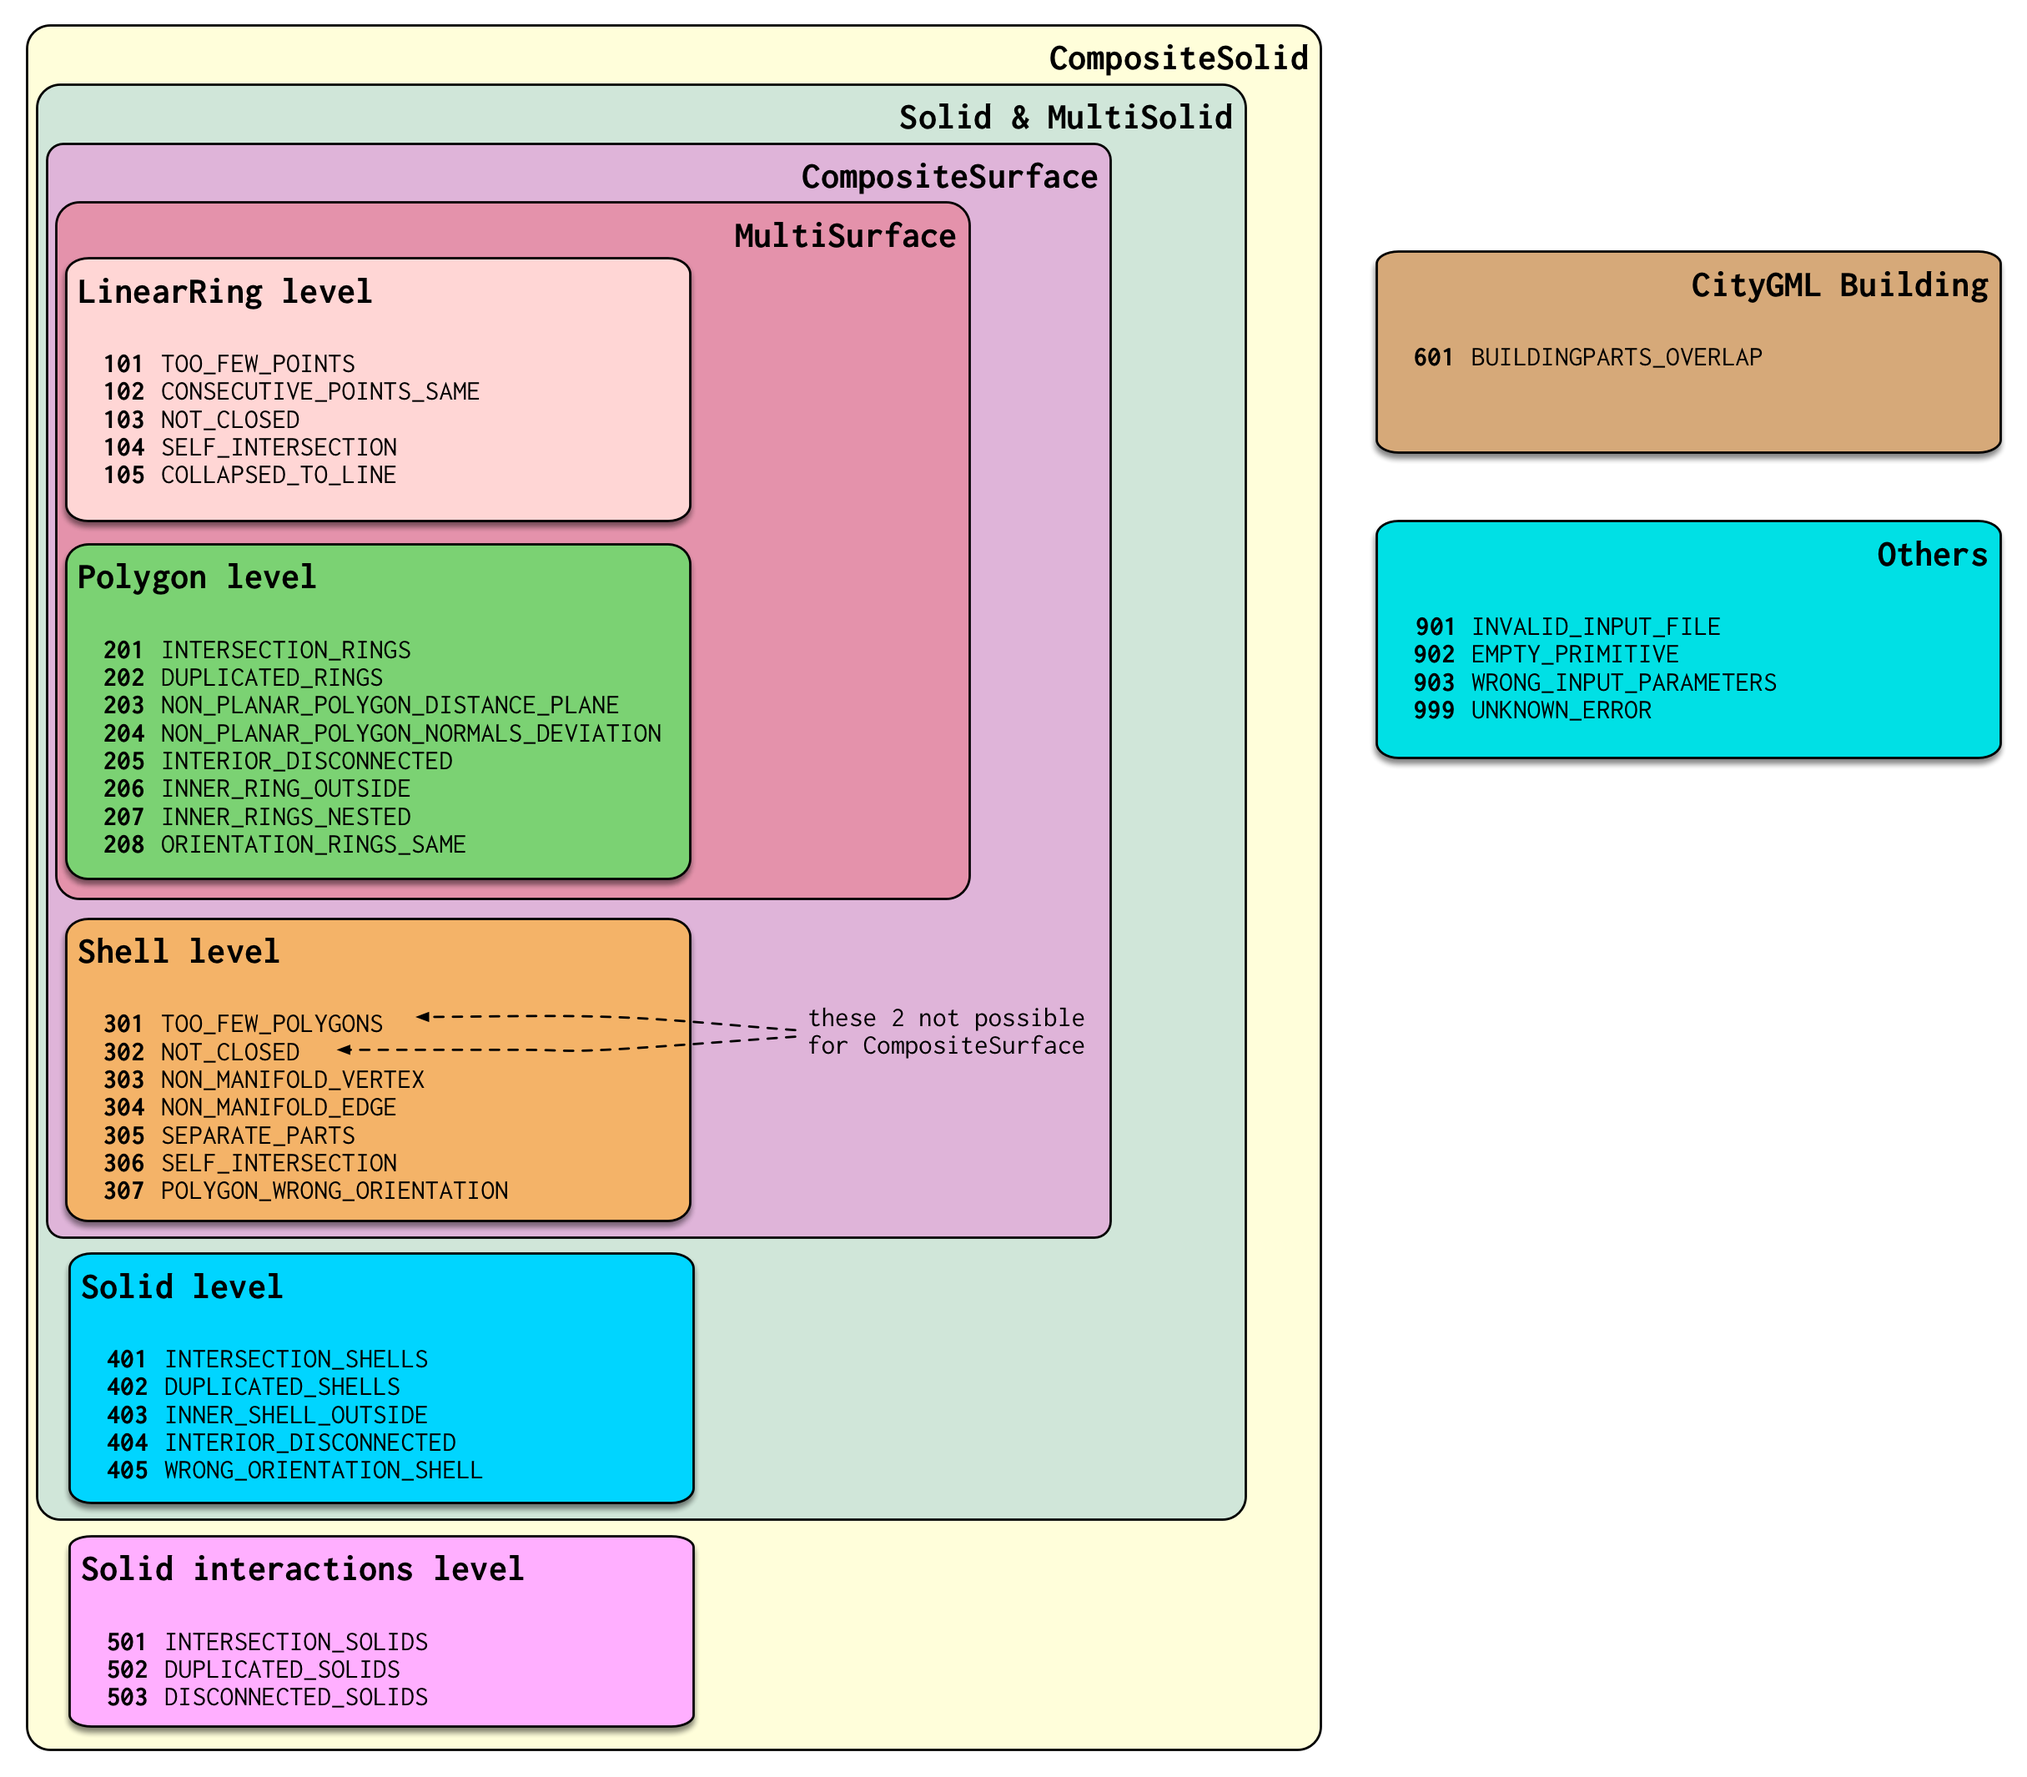
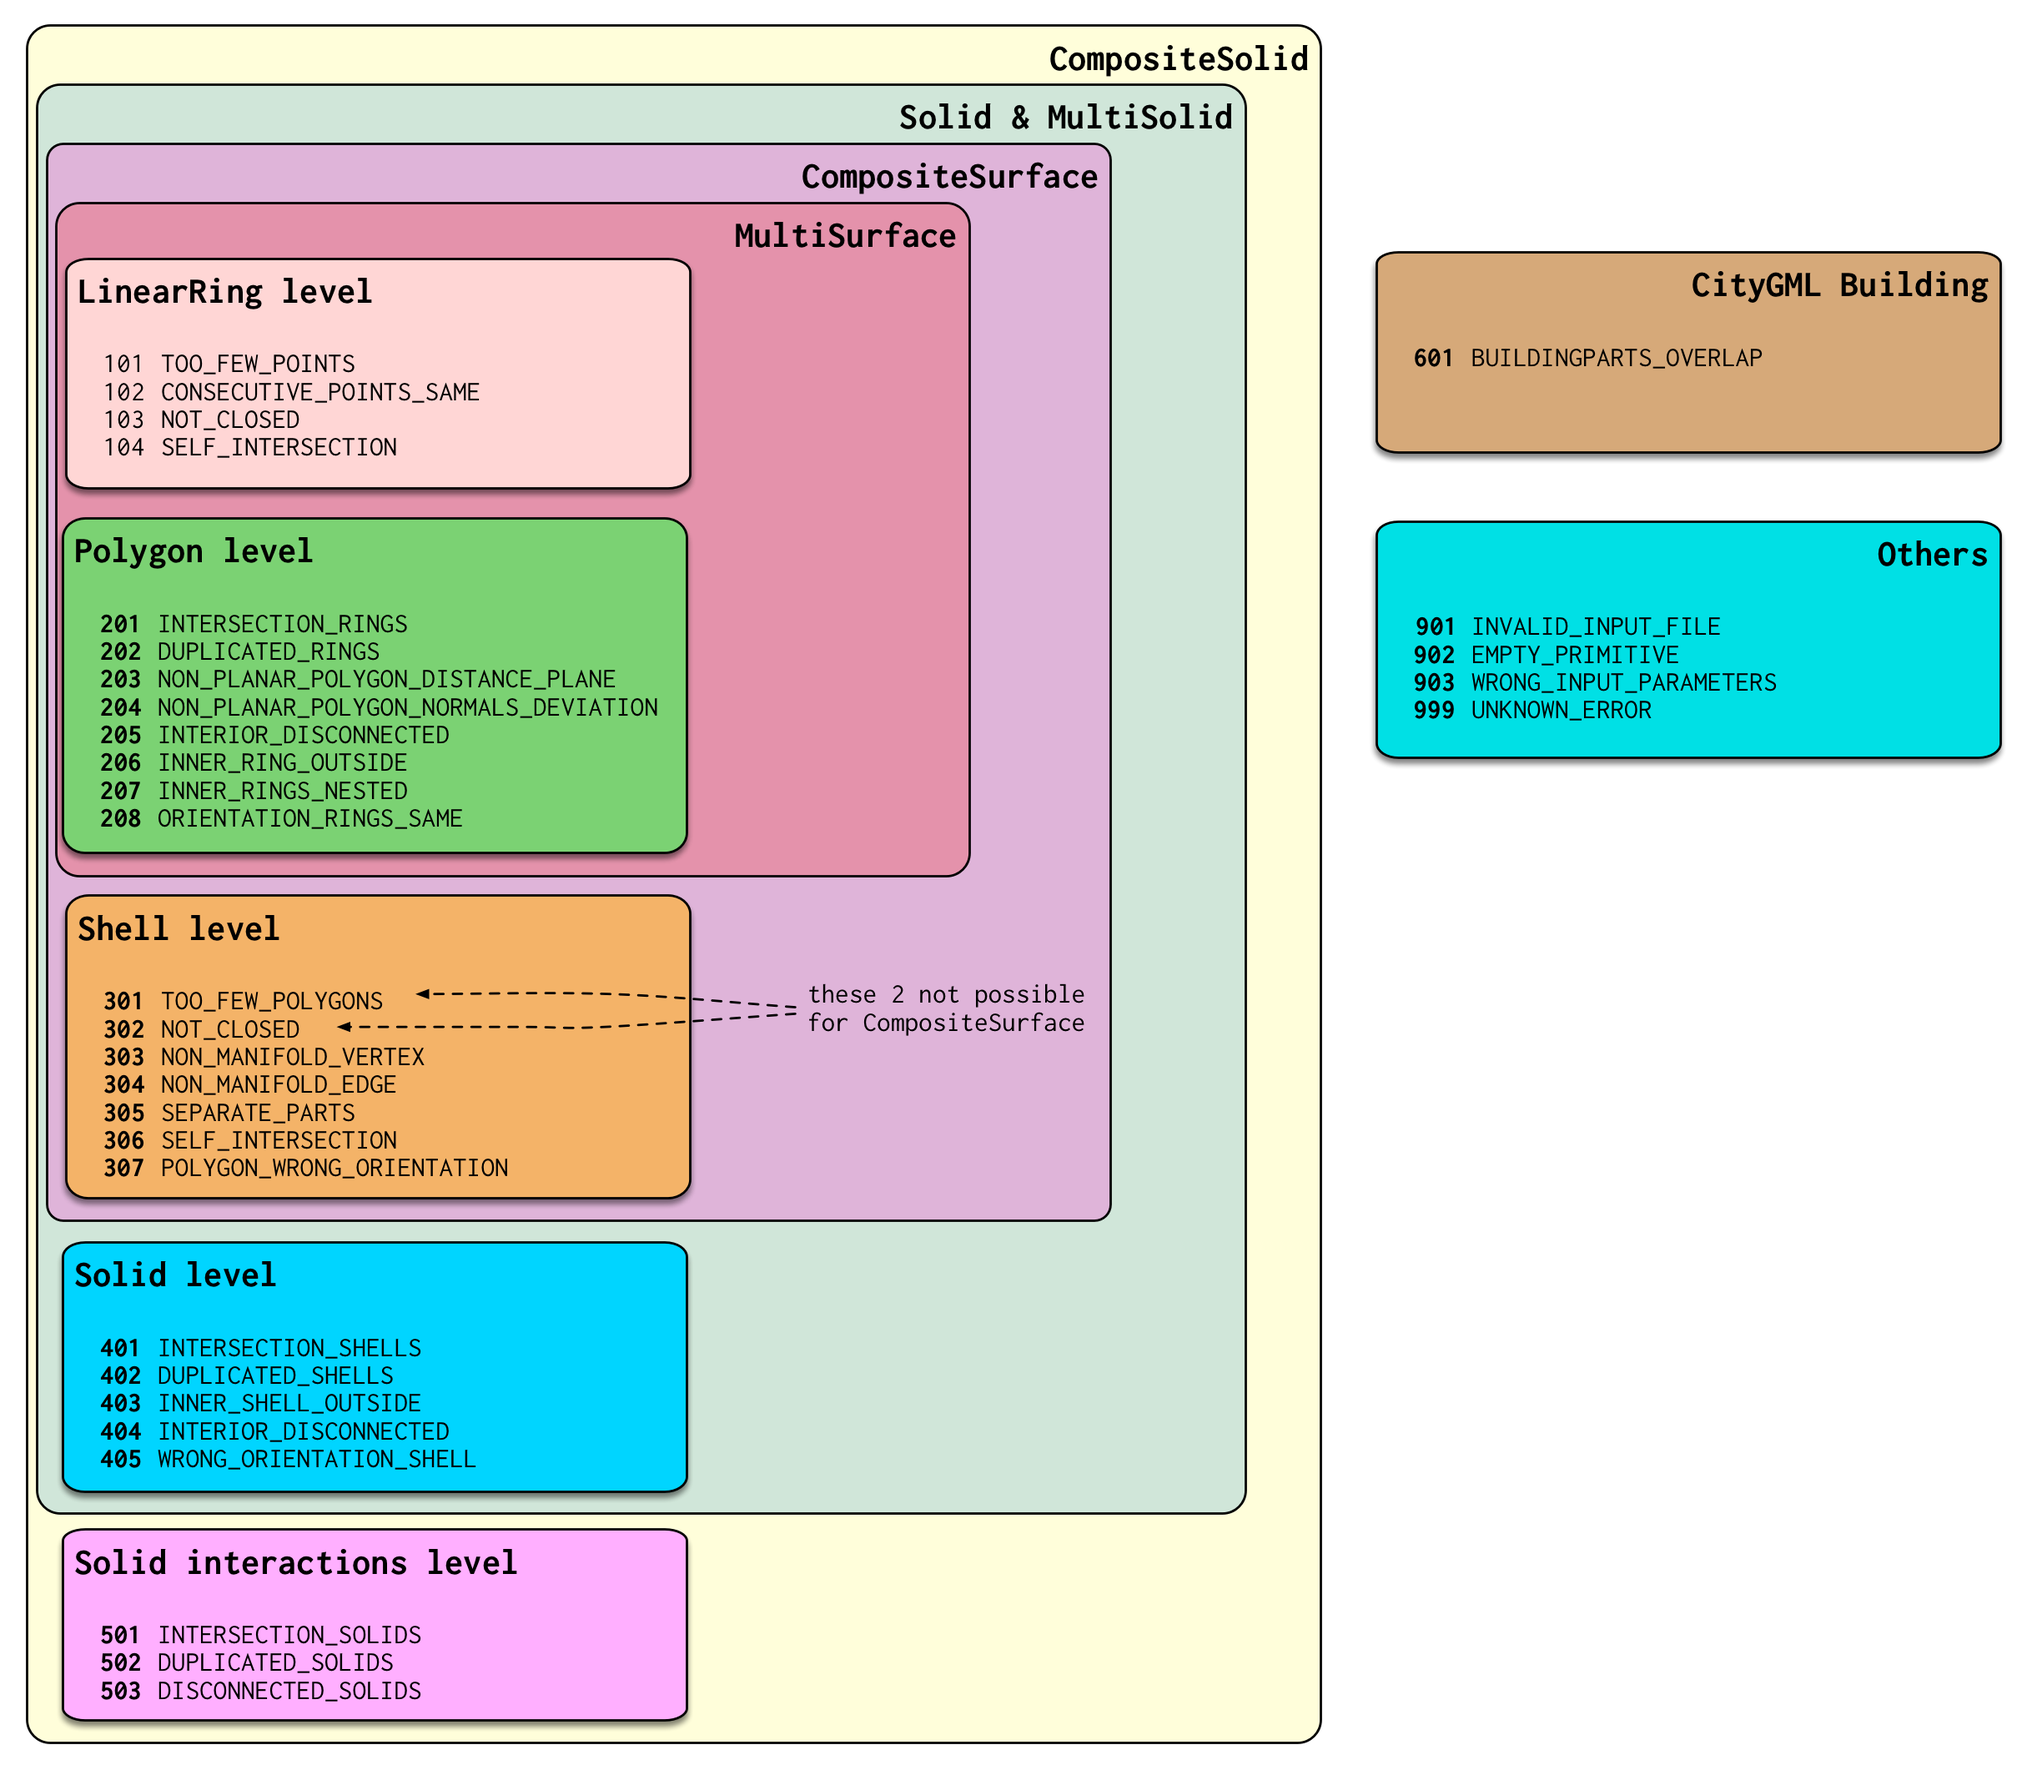
remove error 105: 104 is for this case too

diff --git a/src/Surface.cpp b/src/Surface.cpp
@@ -431,11 +431,11 @@ bool Surface::validate_2d_primitives(double tol_planarity_d2p, double tol_planar
     size_t numf = _lsFaces[i].size();
     std::vector<int> &ids = _lsFaces[i][0]; // helpful alias for the outer boundary
 
-    //-- if only 3 pts it's now valid, no need to process further
+    //-- if only 3 pts it's not valid, no need to process further
     if ( (numf == 1) && (ids.size() == 3)) 
     {
       if (CGAL::collinear(_lsPts[ids[0]], _lsPts[ids[1]], _lsPts[ids[2]]) == true) {
-        this->add_error(104, _lsFacesID[i], " outer ring (a triangle) is collapsed to a point or a line");
+        this->add_error(104, _lsFacesID[i], " outer ring (a triangle) is collapsed to a line");
         isValid = false;
       }
       continue;
@@ -471,7 +471,7 @@ bool Surface::validate_2d_primitives(double tol_planarity_d2p, double tol_planar
     std::vector<Polygon> lsRings;
     if (false == create_polygon(_lsPts, ids, pgn))
     {
-      this->add_error(104, _lsFacesID[i], " outer ring self-intersects or is collapsed to a point or a line");
+      this->add_error(104, _lsFacesID[i], " outer ring self-intersects or is collapsed to a line");
       isValid = false;
       continue;
     }
@@ -484,7 +484,7 @@ bool Surface::validate_2d_primitives(double tol_planarity_d2p, double tol_planar
       Polygon pgn;
       if (false == create_polygon(_lsPts, ids2, pgn))
       {
-        this->add_error(104, _lsFacesID[i], "Inner ring self-intersects or is collapsed to a point or a line");
+        this->add_error(104, _lsFacesID[i], "Inner ring self-intersects or is collapsed to a line");
         isValid = false;
         continue;
       }

diff --git a/docs/errors.rst b/docs/errors.rst
@@ -65,17 +65,10 @@ This ring is for instance invalid:
 
 104 -- SELF_INTERSECTION 
 ------------------------
-A ring should be *simple*, ie it should not self-intersect. The self-intersection can be at the location of an explicit point, or not.
+A ring should be *simple*, ie it should not self-intersect. The self-intersection can be at the location of an explicit point, or not. This case includes rings that are (partly) collapsed to a line for instance.
 
 .. image:: _static/104.png
 
-.. _error_105:
-
-105 -- COLLAPSED_TO_LINE 
-------------------------
-A special case of :ref:`error_104`: the ring is collapsed to a line. If the geometry is collapsed to a point, then :ref:`error_101`/:ref:`error_102` is used. 
-
-.. image:: _static/105.png
 
 .. _error_201:
 
